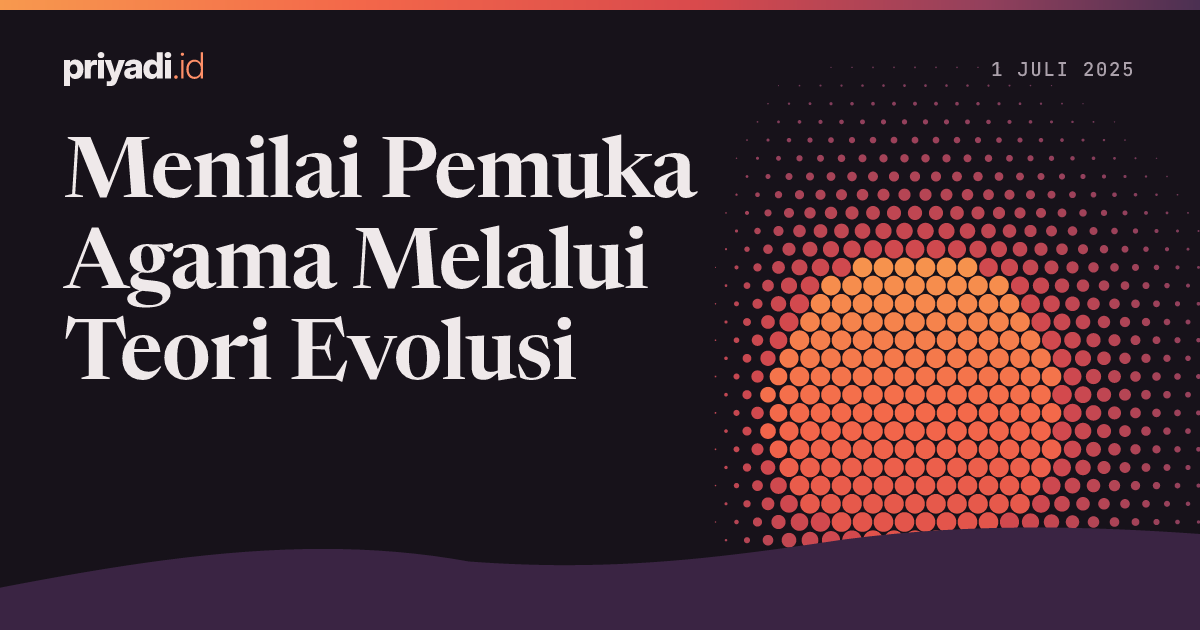
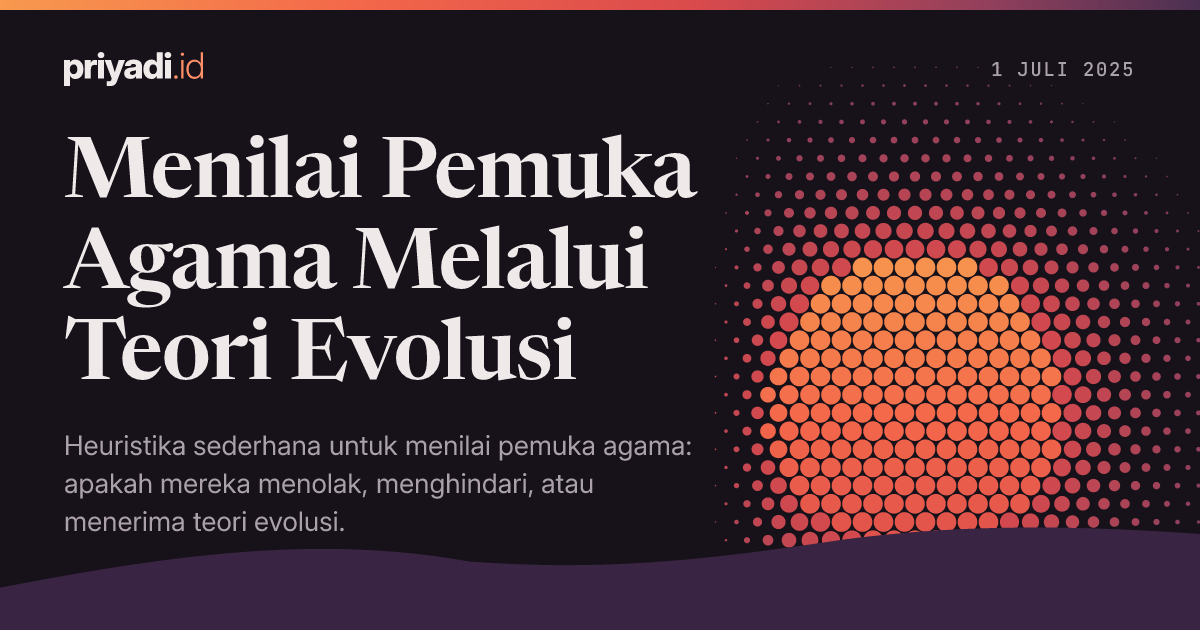
cleanup

Changed region(s): [[0.0617, 0.6937, 0.5858, 0.7238], [0.0308, 0.754, 0.4933, 0.7841], [0.0308, 0.8143, 0.2775, 0.8444]]

diff --git a/blog/2025-02/18-christopher-farrel-kecilin/index.md b/blog/2025-02/18-christopher-farrel-kecilin/index.md
@@ -1,10 +1,11 @@
 ---
 title: Christopher Farrel & Kecilin
-description: Investigasi di balik kisah tragis Christopher Farrel & Kecilin
+description: Investigasi di balik berita tragis Christopher Farrel & Kecilin
 authors: priyadi
 image: ./socialcard.png
 socialcard:
-  variant: pattern
+  variant: figure
+  image: ./kecilin-demo.jpeg
 ---
 
 Dari berita diketahui bahwa Christopher Farrel, pendiri *startup*

diff --git a/blog/2025-04/13-inggris-united-kingdom/index.md b/blog/2025-04/13-inggris-united-kingdom/index.md
@@ -1,9 +1,11 @@
 ---
 title: Penyebutan Inggris di Bahasa Indonesia
+description: Kita mengenal orang Inggris sebelum mengenal negaranya. Sebutan itu bertahan walau negaranya berganti nama.
 authors: priyadi
 image: ./socialcard.png
 socialcard:
-  variant: pattern
+  variant: figure
+  image: ./bbc.png
 ---
 
 Teori saya mengapa Indonesia menggunakan istilah 'Inggris' untuk menyebut

diff --git a/blog/2025-09/02-buzzer/index.md b/blog/2025-09/02-buzzer/index.md
@@ -1,5 +1,6 @@
 ---
-title: Istilah 'Buzzer' di Politik Adalah Buatan Lokal, Bukan Istilah Bahasa Inggris
+title: Istilah *'Buzzer'* di Politik Adalah Buatan Lokal, Bukan Istilah Bahasa Inggris
+description: Penutur asli bahasa Inggris tidak mengenal arti politiknya, jadi gunakan istilah lain saat menulis dalam bahasa Inggris.
 authors: priyadi
 image: ./socialcard.png
 socialcard:

diff --git a/blog/2026-02/15-ai-penjilat/index.md b/blog/2026-02/15-ai-penjilat/index.md
@@ -2,8 +2,10 @@
 title: Berkat AI, Semua Orang Juga Bisa Merasakan Punya Bawahan Penjilat
 authors: priyadi
 image: ./socialcard.png
+description: Bawahan penjilat bukan lagi monopoli pejabat
 socialcard:
-  variant: pattern
+  variant: figure
+  image: ./penjilat.jpeg
 ---
 
 Model AI dibuat untuk melayani pengguna. Dia akan berusaha melakukan apa pun

diff --git a/blog/2025-02/21-kabur-aja-dulu/index.md b/blog/2025-02/21-kabur-aja-dulu/index.md
@@ -4,7 +4,10 @@ authors: priyadi
 description: '#KaburAjaDulu dari sudut pandang perubahan iklim'
 image: ./socialcard.png
 socialcard:
-  variant: pattern
+  variant: figure
+  image: ./sealevelrise.svg
+  fit: cover
+  position: right center
 ---
 
 `#KaburAjaDulu` adalah tagar yang populer, berisi ajakan bagi anak muda untuk

diff --git a/blog/2025-11/13-bahan-bakar-ajaib/index.md b/blog/2025-11/13-bahan-bakar-ajaib/index.md
@@ -1,5 +1,6 @@
 ---
 title: Bahan Bakar Ajaib dan Produk Sejenisnya
+description: Ciri-ciri yang hampir selalu ada pada bahan bakar ajaib dan produk sejenisnya, dari klaim bombastis sampai bumbu nasionalisme dan agama.
 authors: priyadi
 image: ./socialcard.png
 socialcard:

diff --git a/blog/2025-08/17-negara-adalah-alat-politik-bukan-tujuan-akhir/index.md b/blog/2025-08/17-negara-adalah-alat-politik-bukan-tujuan-akhir/index.md
@@ -1,5 +1,6 @@
 ---
 title: Negara Adalah Alat Politik, Bukan Tujuan Akhir Itu Sendiri
+description: Simbol negara hanyalah alat. Yang penting adalah kebebasan, keadilan, dan persamaan hak yang seharusnya diwakilinya.
 authors: priyadi
 image: ./socialcard.png
 socialcard:

diff --git a/blog/2025-11/07-the-act-of-killing/index.md b/blog/2025-11/07-the-act-of-killing/index.md
@@ -1,5 +1,6 @@
 ---
-title: "The Act of Killing"
+title: "*\"The Act of Killing\"*"
+description: 'Penawar propaganda film "Pengkhianatan G30S/PKI": para pelaku kekejaman sendiri yang bercerita dengan bangga.'
 authors: priyadi
 image: ./socialcard.png
 socialcard:

diff --git a/blog/2025-07/01-menilai-pemuka-agama-melalui-evolusi/index.md b/blog/2025-07/01-menilai-pemuka-agama-melalui-evolusi/index.md
@@ -1,5 +1,6 @@
 ---
 title: Menilai Pemuka Agama Melalui Teori Evolusi
+description: 'Heuristika sederhana untuk menilai pemuka agama: apakah mereka menolak, menghindari, atau menerima teori evolusi.'
 authors: priyadi
 image: ./socialcard.png
 socialcard:

diff --git a/blog/2025-05/02-duduk-bersila/index.md b/blog/2025-05/02-duduk-bersila/index.md
@@ -1,5 +1,6 @@
 ---
 title: Duduk Bersila
+description: 'Pesan untuk guru agama: jangan hukum siswa yang tidak tertib duduk bersila. Bisa jadi tubuh mereka memang tidak tahan.'
 authors: priyadi
 image: ./socialcard.png
 socialcard:

diff --git a/blog/2026-05/26-kurban-perubahan-iklim/index.md b/blog/2026-05/26-kurban-perubahan-iklim/index.md
@@ -1,5 +1,6 @@
 ---
 title: Ibadah Kurban dan Perubahan Iklim
+description: Dampak ibadah kurban terhadap perubahan iklim, dan perlunya berpikir lagi soal ini.
 authors: priyadi
 image: ./socialcard.png
 socialcard:

diff --git a/blog/2025-02/17-hello-world/index.md b/blog/2025-02/17-hello-world/index.md
@@ -1,6 +1,10 @@
 ---
 title: Hello World
+description: Tulisan pertama di blog ini.
 authors: priyadi
+image: ./socialcard.png
+socialcard:
+  variant: pattern
 ---
 
 Hello world! This is my first blog post.
